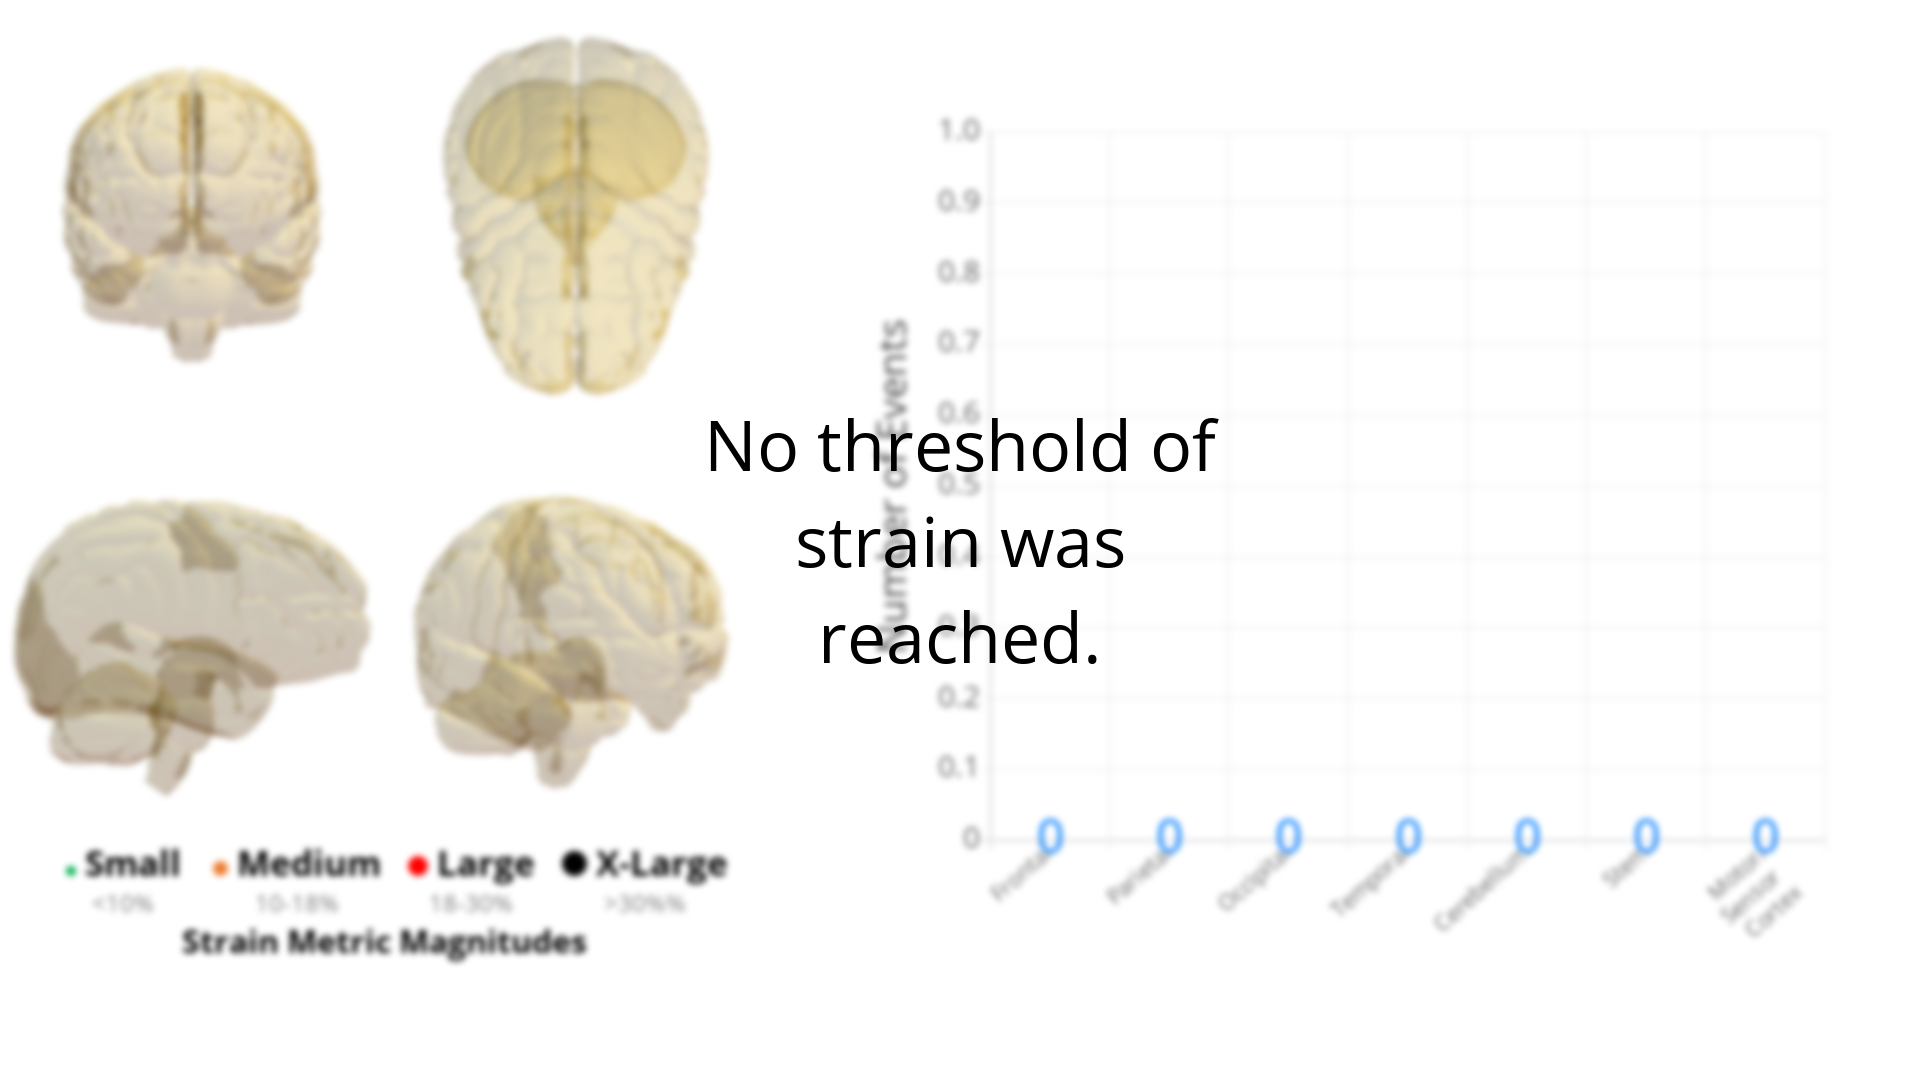
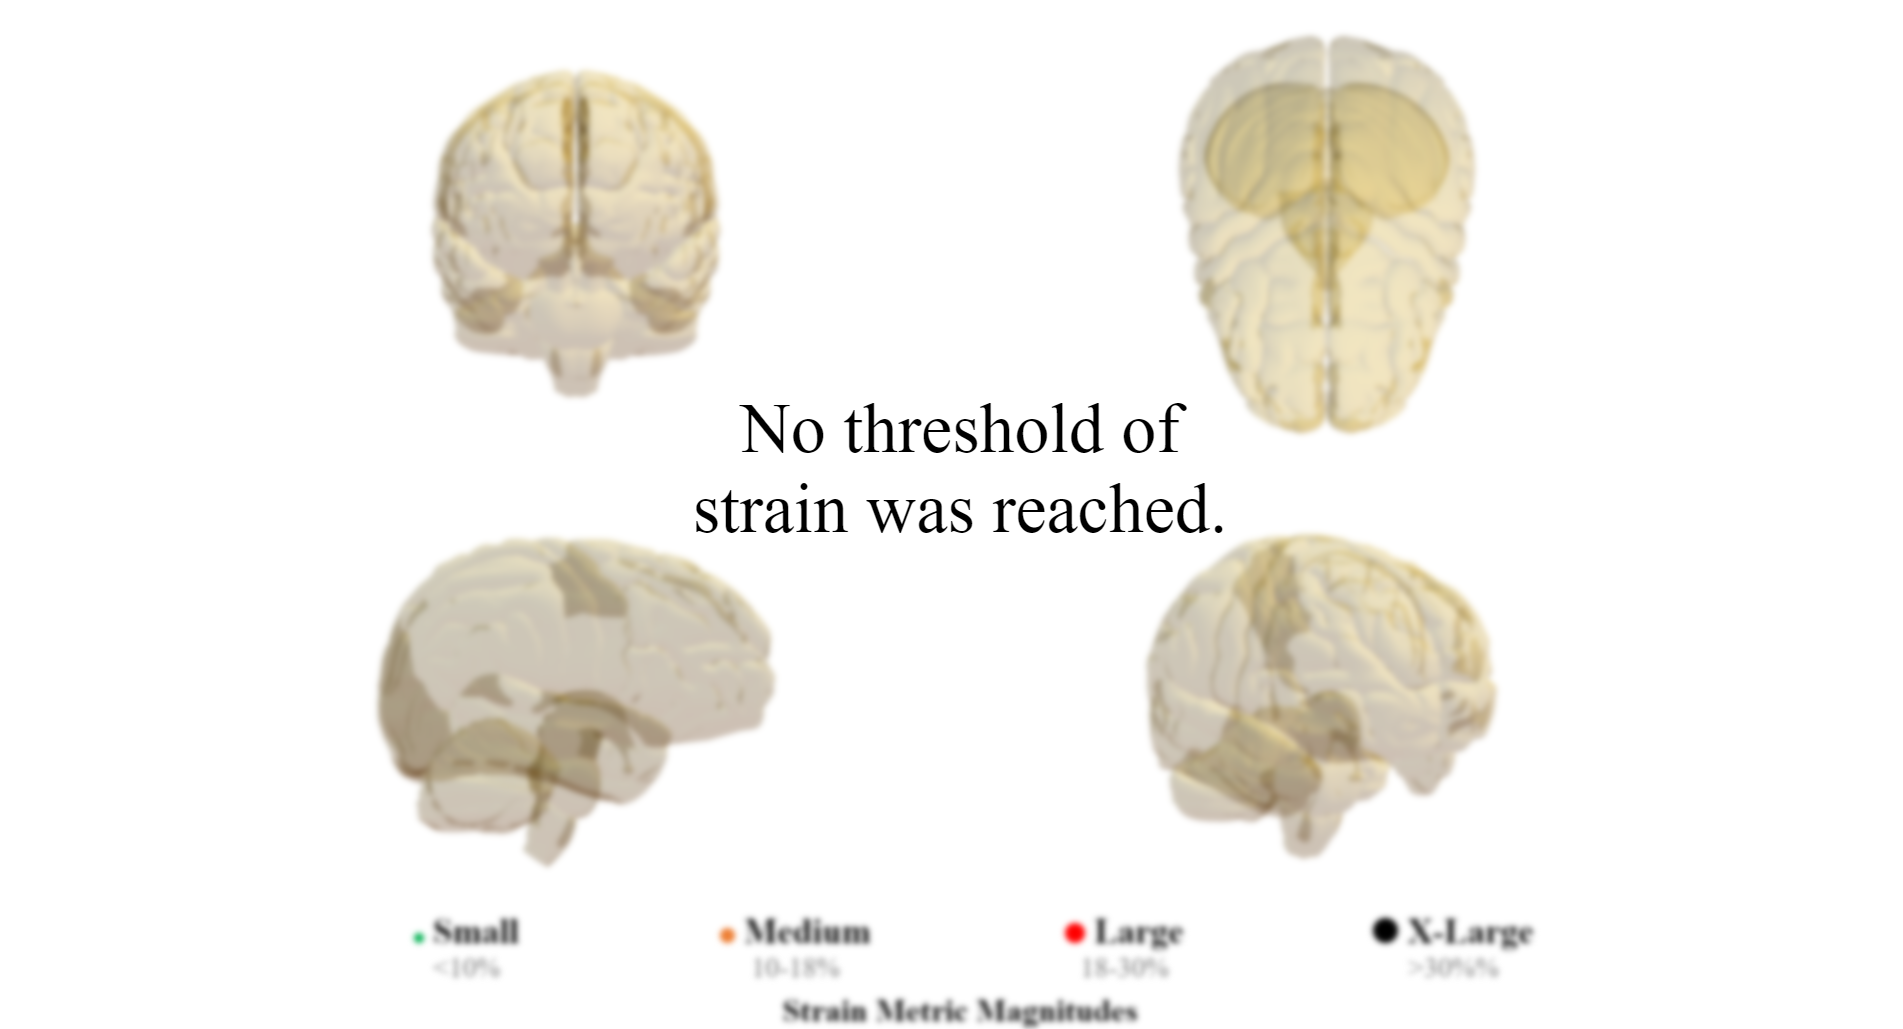
Alternative legend, new sphere sizes for Labeled Brain images, Brains closer and bigger

diff --git a/writeImage.js b/writeImage.js
@@ -190,7 +190,10 @@ module.exports = function writeImage(
             <div class="grey-text">&gt;30%%</div></div>
         
             <div style="bottom: 0px;position: relative;left: 50%;transform: translate(-50%);font-size: 32px;font-weight: bold;">Strain Metric Magnitudes</div>
-        </div> 
+        </div>
+        <div id="alternative-legend" style="bottom: 25;left: 50%;transform: translate(-50%);width: fit-content;display: none;z-index: 20;position: relative;text-align: center; font-size: 47px;font-weight: bold;">
+        Alternative-legend
+        </div>
       
       </div>
       <div id="chart-container" style = "display:inline-block; width: 50%; height: 80%; margin-left: 5%;">
@@ -228,7 +231,7 @@ module.exports = function writeImage(
 
       //const browser = await puppeteer.launch();
       const page = await browser.newPage();
-      await page.setViewport({ width: 1920, height: 1080 });
+      await page.setViewport({ width: 1920, height: 937 });
       await page.setContent(html);
       // page.on('console', (log) => console[log._type](log._text));
 
@@ -260,7 +263,8 @@ module.exports = function writeImage(
             const DISPLAY_LABELS = ENABLE_LABELS;
             const ENABLE_COLOR_SPHERES = ENABLE_COLOR;
             const ENABLE_CHART = DISPLAY_CHART;
-            if (!ENABLE_CHART) {
+            if(!ENABLE_CHART)
+            {
               document.getElementById("chart-container").style.display = "none";
               document.getElementById("three-content").style.width = "100%";
             }
@@ -299,19 +303,27 @@ module.exports = function writeImage(
             const LARGE_COLOR = new THREE.Color(0xff0000);
             const X_LARGE_COLOR = new THREE.Color(0x000000);
 
-            const SMALL_GEOMETRY = new THREE.SphereGeometry(0.0015, 32, 32);
-            const MEDIUM_GEOMETRY = new THREE.SphereGeometry(0.002, 32, 32);
-            const LARGE_GEOMETRY = new THREE.SphereGeometry(0.003, 32, 32);
-            const X_LARGE_GEOMETRY = new THREE.SphereGeometry(
-              0.004,
-              32,
-              32
-            );
+            var SPHERE_SIZE_MULTIPLIER = 1;
+
+            //Scale spheres for labeled images
+            if(DISPLAY_LABELS)
+            {
+              SPHERE_SIZE_MULTIPLIER = 1.5;
+            }
+            const SMALL_GEOMETRY = new THREE.SphereGeometry(0.0015 * SPHERE_SIZE_MULTIPLIER, 32, 32);
+            const MEDIUM_GEOMETRY = new THREE.SphereGeometry(0.002 * SPHERE_SIZE_MULTIPLIER, 32, 32);
+            const LARGE_GEOMETRY = new THREE.SphereGeometry(0.003 * SPHERE_SIZE_MULTIPLIER, 32, 32);
+            const X_LARGE_GEOMETRY = new THREE.SphereGeometry(0.004 * SPHERE_SIZE_MULTIPLIER, 32, 32);
+
+
+            
 
 
 
             const amount = 2;
-            const space = 10;
+            //const space = 10;
+            //extra space between brains
+            const space = 0;
             const near = 0.1;
             const far = 100;
             const cameraAttArr = [
@@ -459,12 +471,35 @@ module.exports = function writeImage(
                     Math.ceil(height) - space
                   );
 
+                  //Changing camera viewport to bring brains closer
+                  const brain_closer_offset = 100;
+                  if( x==1 && !ENABLE_CHART)
+                  {
+                    subCamera.viewport = new THREE.Vector4(
+                      Math.floor(x * width - brain_closer_offset),
+                      Math.floor(y * height + space / 2),
+                      Math.ceil(width) - space,
+                      Math.ceil(height) - space
+                    );
+                  }
+                  if( x==0 && !ENABLE_CHART)
+                  {
+                    subCamera.viewport = new THREE.Vector4(
+                      Math.floor(x * width + brain_closer_offset),
+                      Math.floor(y * height + space / 2),
+                      Math.ceil(width) - space,
+                      Math.ceil(height) - space
+                    );
+                  }
+
                   const subCameraContainer = new THREE.Object3D();
                   subCameraContainer.add(subCamera);
 
                   subCamera.position.x = 0;
                   subCamera.position.y = 0;
-                  subCamera.position.z = 1;
+                  //subCamera.position.setZ(1);
+                  //Bring camera closer to Scale brains
+                  subCamera.position.setZ(0.9);
                   subCameraContainer.rotation.x += cameraAtt[0].rotX;
                   subCameraContainer.rotation.y += cameraAtt[0].rotY;
                   subCameraContainer.rotation.z += cameraAtt[0].rotZ;
@@ -818,6 +853,31 @@ module.exports = function writeImage(
                   "strain-metric-magnitudes"
                 ).style.display = "none";
               }
+
+              if(brainStrainActive == "MPS-95")
+              {
+                document.getElementById("strain-metric-magnitudes").style.display="none";
+                var alternative_legend = document.getElementById("alternative-legend")
+                alternative_legend.style.display = "block";
+                alternative_legend.innerHTML = "Locations of tissue above 95 Percentile Maximum Principal Strain";
+              }
+
+              if(brainStrainActive == "CSDM-15")
+              {
+                document.getElementById("strain-metric-magnitudes").style.display="none";
+                var alternative_legend = document.getElementById("alternative-legend")
+                alternative_legend.style.display = "block";
+                alternative_legend.innerHTML = "Locations of tissue above CSDM-15";
+              }
+
+              if(brainStrainActive == "CSDM-30")
+              {
+                document.getElementById("strain-metric-magnitudes").style.display="none";
+                var alternative_legend = document.getElementById("alternative-legend")
+                alternative_legend.style.display = "block";
+                alternative_legend.innerHTML = "Locations of tissue above CSDM-30";
+              }
+
               if (ENABLE_CHART) {
                 var elements = document.getElementsByClassName("dot-container");
                 for (let i = 0; i < elements.length; i++) {
@@ -866,12 +926,12 @@ module.exports = function writeImage(
               dataLabel.borderColor = "black";
               dataLabel.backgroundColor = "rgba(255,255,255,1)";
               dataLabel.padding = 4;
-              dataLabel.scale.set(0.12, 0.04, 0.1);
+              dataLabel.scale.set(0.13, 0.04, 0.1);
 
               var sphere_position = new THREE.Vector3();
               sphere.getWorldPosition(sphere_position);
 
-              dataLabel.position.set(-0.115, 0.1, 0.04)
+              dataLabel.position.set(-0.113, 0.1, 0.04)
               console.log("dataLabel.position", dataLabel.position);
               dataLabel.layers.set(1);
               dataLabel.traverse(function (child) {
@@ -923,6 +983,7 @@ module.exports = function writeImage(
         path: account_id + "_" + BRAIN_STRAIN_ACTIVE + ".png",
       });  */
       const base64 = await page.screenshot({
+        fullPage: true,
         omitBackground: true,
        encoding: 'binary'
           })
